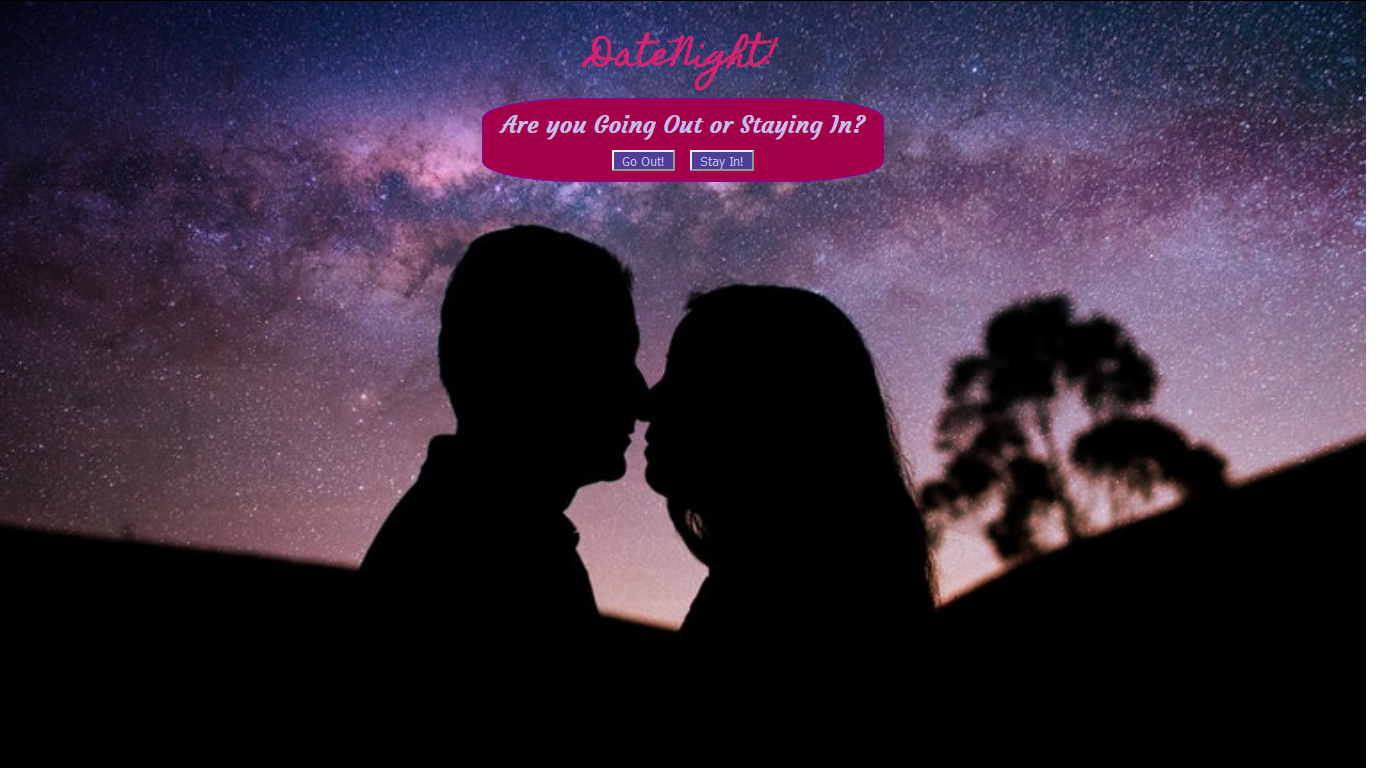
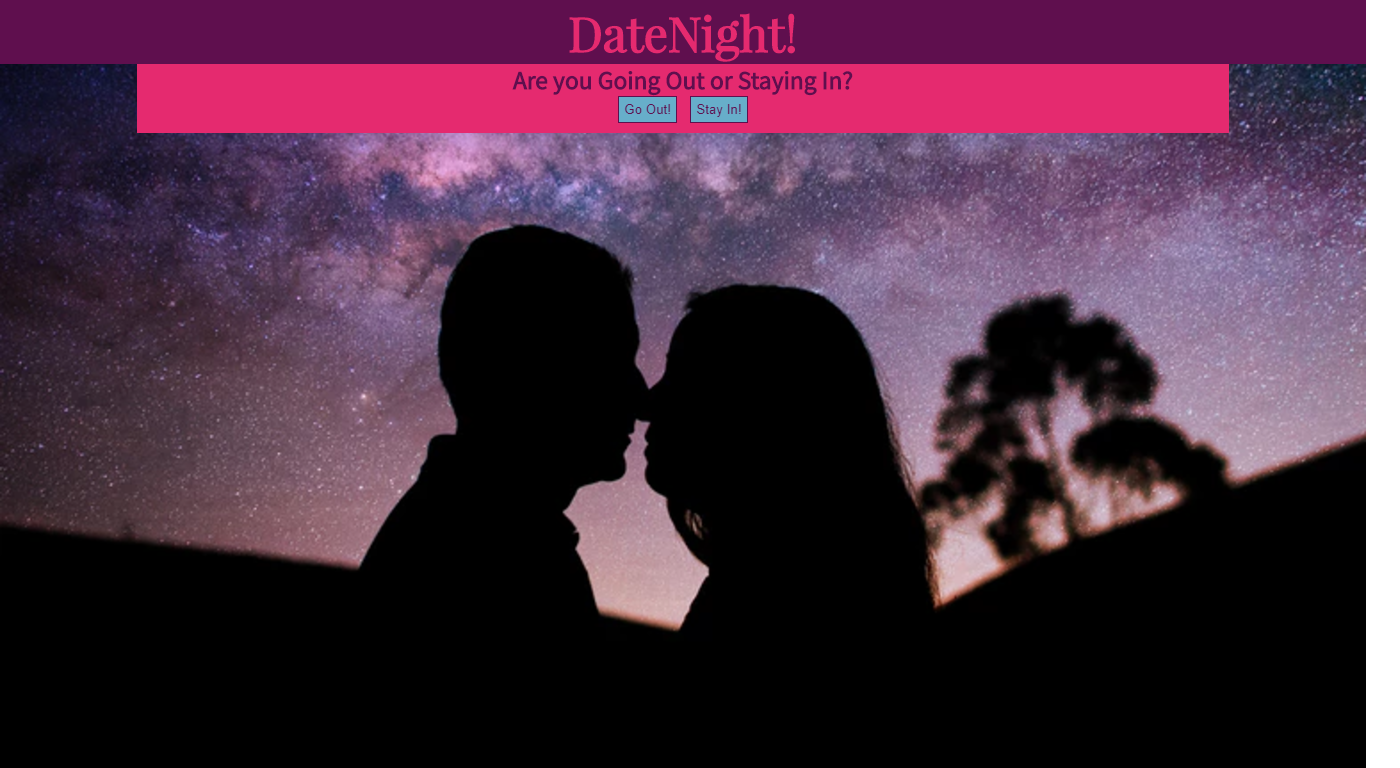
changed the color scheme, changed css styling, updated typography, changed fonts, made the Second Thoughts? button position fixed, made the app responsive to smaller screens, and updated the screenshots

Changed region(s): [[0.0, 0.0, 0.9829, 0.25]]

diff --git a/index.css b/index.css
@@ -1,42 +1,55 @@
+*{
+	margin:0;
+	padding:0;
+}
 html{
 	background: url(https://images.unsplash.com/photo-1502477639450-ccb7a6e7c391?dpr=1&auto=compress,format&fit=crop&w=767&h=511&q=80&cs=tinysrgb&crop=) no-repeat center center fixed;
     -webkit-background-size: cover;
     -moz-background-size:cover;
     -o-background-size:cover;
     background-size: cover;
-    padding:0;
-    margin:0;
-    font-family: 'Courgette', cursive;
+}
+main{
+	font-size:17px;
+	font-family: 'Source Sans Pro', sans-serif;
 }
 
 h1{
-	color:#DC1E70;
-	font-family: 'Homemade Apple', cursive;
+	color:#E52A6F;
+	background:#5F0F4E;
+	font-family: 'Playfair Display', serif;
+	font-size: 48px;
 	font-weight:bold;
-	margin-bottom:5px;
+	margin:0px;
 }
 
 h2{
-	color:#C5BEE9;
-	margin:10px;
+	color:#5F0F4E;
+	background:#E52A6F;
+	width:80%;
+	margin-left:auto;
+	margin-right:auto;
+	margin-bottom:0px;
+	margin-top:0px;
 }
 
 .outOrIn{
-	background:#A30049;
-	color:#C5BEE9;
-	border:1px solid #8801B2;
-	width:400px;
+	background:#E52A6F;
+	color:#5F0F4E;
+	width:80%;
 	margin-left:auto;
 	margin-right:auto;
-	border-radius:25%;
 }
 
 button{
-	background:#4F3E98;
-	color:#C5BEE9;
+	background:#67AECA;
+	color:#5F0F4E;
 	margin-left:5px;
 	margin-right:5px;
 	margin-bottom:10px;
+	border:1px solid #5F0F4E;
+	outline:0;
+	padding:5px;
 }
 
 p{
@@ -44,30 +57,37 @@ p{
 	margin-bottom:5px;
 }
 
+form a{
+	color:#67AECA;
+}
+
+form a:hover{
+	color:#E52A6F;
+}
+
 form{
-	background:#A30049;
-	color:#C5BEE9;
-	border:1px solid #8801B2;
+	background:#5F0F4E;
+	color:#67AECA;
 	width:90%;
 	margin-left:auto;
 	margin-right:auto;
-	border-radius:25%;
 	padding:10px;
 }
 
 .ideaContainer{
-	background:#A30049;
-	color:#C5BEE9;
-	border:1px solid #8801B2;
+	background:#5F0F4E;
+	color:#67AECA;
 	width:90%;
 	margin-left:auto;
 	margin-right:auto;
-	border-radius:25%;
+	margin-bottom:20px;
 	padding:20px;
+	line-height:130%;
+	text-align:center;
 }
 
 .cityRequestContainer{
-	width:400px;
+	width:60%;
 }
 
 header, .outOrInBox, nav, .city{
@@ -80,9 +100,6 @@ header, .outOrInBox, nav, .city{
 	width:46%;
 	margin:1%;
 	padding:1%;
-	height:500px;
-	overflow-x:hidden;
-	overflow-y:auto;
 }
 
 .stop:after{
@@ -96,20 +113,125 @@ header, .outOrInBox, nav, .city{
 	height:auto;
 }
 
-.resultHolder{
-	background:#C5BEE9;
-	color:#4F3E98;
-	border:1px solid #8801B2;
-	margin-bottom:10px;
-	margin-top:10px;
-	border-radius:25%;
-	padding:10px;
+.resultHolder a{
+	color:#5F0F4E;
 }
 
-@media only screen and (max-width:400px){
-	.outOrIn, .column, .cityRequestContainer{
-		width:98%;
-		margin:1%;
-		padding:1%;
+.resultHolder a:hover{
+	color:#E52A6F;
+}
+
+.resultHolder{
+	background:#675682;
+	color:#5F0F4E;
+	margin-bottom:10px;
+	margin-top:10px;
+	padding:10px;
+	line-height:130%;
+	text-align:center;
+}
+
+nav{
+	position:fixed;
+	bottom:0;
+	left:30%;
+	right:30%;
+	background:#5F0F4E;
+	padding-left:5px;
+	padding-right:5px;
+	padding-top:10px;
+}
+
+@media only screen and (max-width:640px){
+
+	*{
+		margin:0;
+		width:100%;
+		padding:0;
 	}
+	
+	.column{
+		width:100%;
+		margin:0;
+		padding:0;
+	}
+
+	form{
+		width:100%;
+		padding:0;
+		margin-left:0;
+		margin-right:0;
+		margin-top:5px;
+		margin-bottom:5px;
+	}
+
+	.eventColumn{
+		margin-right:0;
+		margin-left:0;
+		margin-top:0;
+		margin-bottom:100px;
+		width:100%;
+		padding:0;
+	}
+
+	.ideaContainer{
+		width:100%;
+		margin-left:0;
+		margin-right:0;
+		margin-top:0;
+		margin-bottom:100px;
+		padding:0;
+	}
+
+	input{
+		width:90%;
+		margin:0;
+		padding:0;
+	}
+
+	button{
+		margin-top:5px;
+		width:30%;
+	}
+
+	.resultHolder{
+		width:100%;
+		margin:0;
+		padding-left:0;
+		padding-right:0;
+		padding-bottom:0;
+		padding-top:10px;
+	}
+
+	a img{
+		width:66%;
+	}
+
+	img.attEvent{
+		width:20%;
+	}
+
+	img.attFood{
+		width:10%;
+	}
+
+	img.attRecipe{
+		width:30%;
+	}
+
+	nav{
+		width:90%;
+		bottom:0;
+		left:5%;
+		right:5%;
+		margin:0;
+		padding:0;
+	}
+	.cityRequestContainer{
+	width:60%;
+	margin-left:auto;
+	margin-right:auto;
+	margin-top:0;
+	margin-bottom:15px;
+}
 }

diff --git a/index.html b/index.html
@@ -3,7 +3,7 @@
 <head>
 	<title>Date Night</title>
 	<link rel="stylesheet" type="text/css" href="index.css">
-	<link href="https://fonts.googleapis.com/css?family=Courgette|Homemade+Apple" rel="stylesheet"> 
+	<link href="https://fonts.googleapis.com/css?family=Playfair+Display|Source+Sans+Pro" rel="stylesheet">  
 	<script type="text/javascript"></script>
 	<script type="text/javascript" src="http://api.eventful.com/js/api"></script>
 	<script
@@ -48,18 +48,18 @@
 		            <button type="submit" class="foodSubmit">Search</button>
 		            </br>
 		            <a href="https://www.zomato.com/?utm_source=referral-widget&amp;utm_medium=restaurant_search_widget&amp;utm_campaign=widget-developers">
-		            	<img src="https://www.zomato.com/images/logo/icon_32x32.png" alt="Zomato" width="16px" height="auto">Powered by Zomato
+		            	<img src="https://www.zomato.com/images/logo/icon_32x32.png" alt="Zomato" width="16px" height="auto" class="attFood"><span>  Powered by Zomato</span>
 		            </a>
 	       		</form>
         		<div class="foodResults" aria-live="assertive" hidden></div>
 			</section>
-      		<section class="column" role="region">
+      		<section class="column eventColumn" role="region">
         	  	<form action="#" class="eventRequestContainer" role="search" hidden>
 		            <h3>What do you want to go see?</h3>
 		            <input type="text" class="eventInput" placeholder="Live Music">
 		            <button type="submit" class="eventSubmit">Search</button>
 		            </br>   
-		            <a href="https://eventful.com/"><img src="https://api.eventful.com/images/powered/eventful_58x20.gif" alt="Local Events, Concerts, Tickets">Events by Eventful</a>
+		            <a href="https://eventful.com/"><img src="https://api.eventful.com/images/powered/eventful_58x20.gif" alt="Local Events, Concerts, Tickets" class="attEvent"><span>  Events by Eventful</span></a>
 		        </form>
 		        <div class="eventResults" aria-live="assertive" hidden></div>
 		    </section>
@@ -81,7 +81,7 @@
 		            <button type="submit">Search</button>
 		            </br>
 		            <a href="https://developer.edamam.com">
-		            	<img src="https://developer.edamam.com/images/light.png" alt="Edamam logo">
+		            	<img src="https://developer.edamam.com/images/light.png" alt="Edamam logo" class="attRecipe">
 		            </a>
         		</form>
         		<div class="recipeResults" aria-live="assertive" hidden></div>

diff --git a/index.js b/index.js
@@ -79,7 +79,7 @@ function getRecipes(searchTerm,callback){
       url:edamamSearchURL,
       data:{
         from:0,
-        to:10,
+        to:5,
         app_id:'0ddfcbda',
         app_key:'ff994fb730845d74622198d22cb55dfd',
         q:`${searchTerm}`
@@ -184,7 +184,7 @@ function getFood(searchTerm,callback){
         "user-key":"dfade01cfcbfa8fa156c5d8a39248d21"
       },
       data:{
-        count:10,
+        count:5,
         entity_id:entity,
         entity_type:"city",
         q:searchTerm
